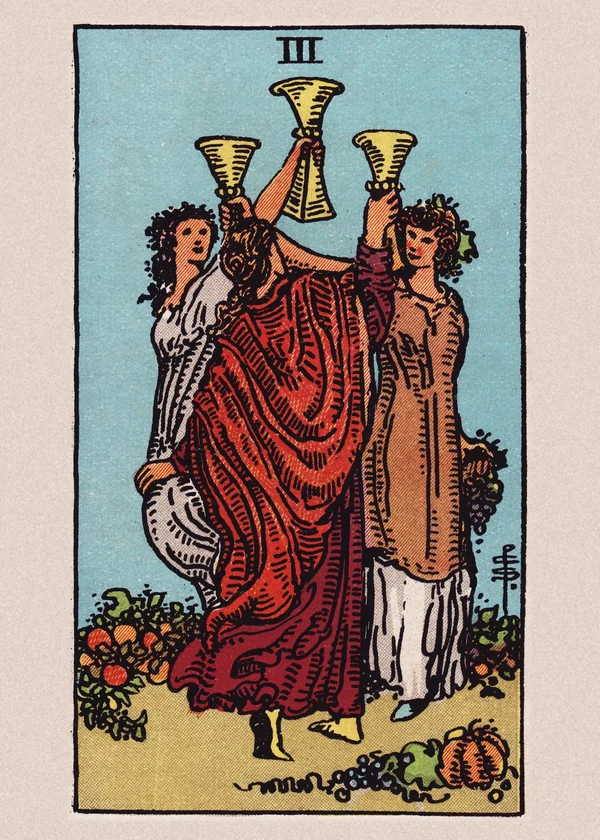
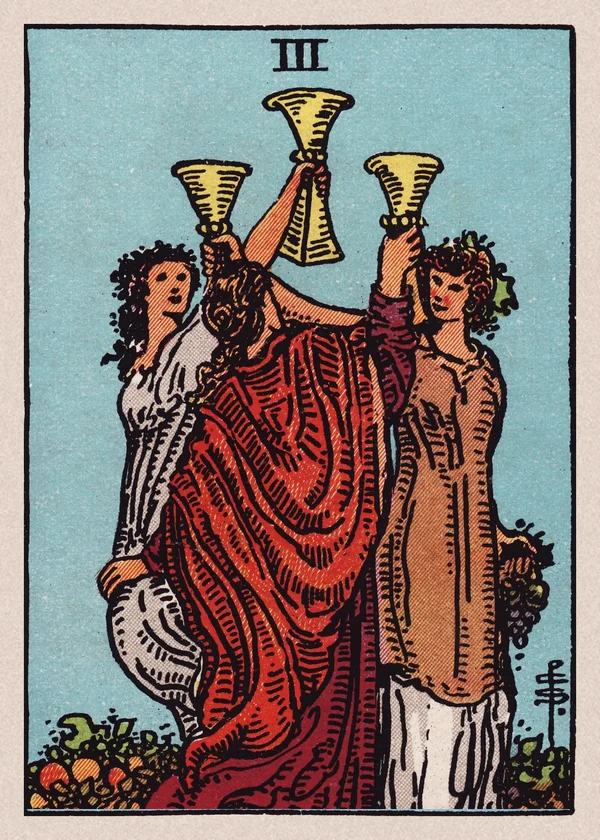
Preview: 1910 Frank Irons broad-jump card for EXACT, scans edge to edge, tarot recropped, intro card 7 columns
Claude-Session: https://claude.ai/code/session_01PnSu5xV1ctRTnpq1nQqMsJ

diff --git a/index.html b/index.html
@@ -22,7 +22,7 @@
 <link rel="preconnect" href="https://fonts.gstatic.com" crossorigin>
 <link rel="stylesheet" href="https://fonts.googleapis.com/css2?family=Bricolage+Grotesque:opsz,wght@12..96,300..800&family=Plus+Jakarta+Sans:ital,wght@0,300..800;1,300..800&family=Rampart+One&display=swap">
 <link rel="stylesheet" href="assets/site.css?v=20261013u">
-<link rel="stylesheet" href="assets/dir-i.css?v=20261105zi">
+<link rel="stylesheet" href="assets/dir-i.css?v=20261105zk">
 <!-- the ground fetched first, so it is usually there for the first frame -->
 <link rel="preload" as="image" href="assets/tex/moss-quiet-2k.webp" fetchpriority="high">
 <link rel="preload" as="image" href="assets/tex/canopy-shade-L.webp" fetchpriority="high">
@@ -88,7 +88,7 @@
  
  <h2 class="i-label" id="work">Case studies</h2>
  <section class="i-row i-cases"><div class="phone floor-phone no-grass lay" role="img" aria-label="The EXACT app measuring a vertical jump"><img src="assets/img/exact-capture-vertical-jump.webp" alt=""></div>
-  <article class="card lay case k1 d-trade"><div class="cf"><div class="c-art art-stations c-deck"><img src="assets/img/cards/murad-card.webp" alt="" width="600" height="840" loading="eager" decoding="async"></div><p class="c-type">EXACT Sports, 2026</p><h3><a class="c-link" href="work/exact-sports/">Reimagining the Combine</a></h3><p class="c-text">How interviews with coaches helped me build an AR app that replaces pen-and-paper testing at athletic events.</p><a class="c-more" href="work/exact-sports/" tabindex="-1" aria-hidden="true">Read the case study</a></div></article>
+  <article class="card lay case k1 d-trade"><div class="cf"><div class="c-art art-stations c-deck"><img src="assets/img/cards/irons-jump.webp" alt="" width="729" height="840" loading="eager" decoding="async"></div><p class="c-type">EXACT Sports, 2026</p><h3><a class="c-link" href="work/exact-sports/">Reimagining the Combine</a></h3><p class="c-text">How interviews with coaches helped me build an AR app that replaces pen-and-paper testing at athletic events.</p><a class="c-more" href="work/exact-sports/" tabindex="-1" aria-hidden="true">Read the case study</a></div></article>
   <article class="card lay case k2 d-hana"><div class="cf"><span class="c-index s-blk" aria-hidden="true"><b>2</b><i>♠</i></span><div class="c-art art-lab c-deck"><img src="assets/img/cards/hana-feb.webp" alt="" width="489" height="820" loading="eager" decoding="async"></div><p class="c-type">Embodied Cognition Lab, 2025–26</p><h3><a class="c-link" href="work/embodied-cognition/">An Unorthodox Approach to Language Learning</a></h3><p class="c-text">How I worked to help design and pilot a role-playing workshop to help language learners get comfortable making mistakes.</p><a class="c-more" href="work/embodied-cognition/" tabindex="-1" aria-hidden="true">Read the case study</a><span class="c-index c-index-b s-blk c-kun" aria-hidden="true"><b lang="ja">ふた</b><i>♠</i></span></div></article>
   <article class="card lay case k3 d-tarot"><div class="cf"><div class="c-art art-birds c-deck"><img src="assets/img/cards/tarot-3-cups.webp" alt="" width="600" height="840" loading="eager" decoding="async"></div><p class="c-type">BIRDS Lab, 2025–26</p><h3><a class="c-link" href="work/birds-lab/">Unpacking Allyship</a></h3><p class="c-text">What I took away from analyzing and running studies about the nature of how to best help people recovering from minority stress.</p><a class="c-more" href="work/birds-lab/" tabindex="-1" aria-hidden="true">Read the case study</a></div></article>
  </section>

diff --git a/assets/dir-i.css b/assets/dir-i.css
@@ -849,3 +849,11 @@ li.mock::before, label.mock::before, .c-pdf.mock::before, .c-now.mock::before { 
 .x-i.x-i.x-i .i-cases > .case.d-trade .c-art.c-deck, .x-i.x-i.x-i .i-cases > .case.d-tarot .c-art.c-deck { inset: 0; border: 0; outline: 0; box-shadow: none; border-radius: inherit; overflow: hidden; }
 .x-i.x-i.x-i .i-cases > .case.d-trade .c-art.c-deck img, .x-i.x-i.x-i .i-cases > .case.d-tarot .c-art.c-deck img { object-fit: cover; position: static; z-index: auto; }
 .x-i.x-i.x-i .i-cases > .case h3 { box-shadow: none; }
+/* Scanned cards: the scan is the face, edge to edge (the base .card padding made a second border). */
+.x-i.x-i.x-i .i-cases > .case.d-trade, .x-i.x-i.x-i .i-cases > .case.d-hana, .x-i.x-i.x-i .i-cases > .case.d-tarot { padding: 0; }
+.x-i.x-i.x-i .i-cases > .case.d-trade::after, .x-i.x-i.x-i .i-cases > .case.d-tarot::after { background-image: linear-gradient(125deg, rgba(255,255,255,.14) 0%, rgba(255,255,255,0) 35%, rgba(255,255,255,0) 70%, rgba(255,255,255,.06) 100%); box-shadow: none; }
+/* EXACT: a real 1910 trading card (Frank Irons, broad jump) at its own squarer shape, same height as the others. */
+.x-i.x-i.x-i .i-cases > .case.d-trade { aspect-ratio: 2514 / 2898; width: 121.4%; justify-self: end; border-radius: 6px; background: none; }
+.x-i.x-i.x-i .i-cases > .case.d-trade .c-art.c-deck img { object-fit: fill; }
+@media (max-width: 1000px) { .x-i.x-i.x-i .i-cases > .case.d-trade { width: min(100%, 340px); justify-self: center; } }
+@media (min-width: 1001px) { .x-i.x-i .c-intro { grid-column: 1 / 8; } } /* 7 columns: hugs the tagline and buttons */

diff --git a/work/birds-lab/index.html b/work/birds-lab/index.html
@@ -22,7 +22,7 @@
 <link rel="preconnect" href="https://fonts.gstatic.com" crossorigin>
 <link rel="stylesheet" href="https://fonts.googleapis.com/css2?family=Bricolage+Grotesque:wght@300..800&family=Plus+Jakarta+Sans:ital,wght@0,300..800;1,300..800&family=Rampart+One&display=swap">
 <link rel="stylesheet" href="../../assets/site.css?v=20261013u">
-<link rel="stylesheet" href="../../assets/dir-i.css?v=20261105zi">
+<link rel="stylesheet" href="../../assets/dir-i.css?v=20261105zk">
 <link rel="stylesheet" href="../../assets/case-i.css?v=20261029m">
 <!-- the ground fetched first, so it is usually there for the first frame -->
 <link rel="preload" as="image" href="../../assets/tex/moss-quiet-2k.webp" fetchpriority="high">

diff --git a/work/daily-weather/index.html b/work/daily-weather/index.html
@@ -22,7 +22,7 @@
 <link rel="preconnect" href="https://fonts.gstatic.com" crossorigin>
 <link rel="stylesheet" href="https://fonts.googleapis.com/css2?family=Bricolage+Grotesque:wght@300..800&family=Plus+Jakarta+Sans:ital,wght@0,300..800;1,300..800&family=Rampart+One&display=swap">
 <link rel="stylesheet" href="../../assets/site.css?v=20261013u">
-<link rel="stylesheet" href="../../assets/dir-i.css?v=20261105zi">
+<link rel="stylesheet" href="../../assets/dir-i.css?v=20261105zk">
 <link rel="stylesheet" href="../../assets/case-i.css?v=20261029m">
 <!-- the ground fetched first, so it is usually there for the first frame -->
 <link rel="preload" as="image" href="../../assets/tex/moss-quiet-2k.webp" fetchpriority="high">

diff --git a/work/embodied-cognition/index.html b/work/embodied-cognition/index.html
@@ -22,7 +22,7 @@
 <link rel="preconnect" href="https://fonts.gstatic.com" crossorigin>
 <link rel="stylesheet" href="https://fonts.googleapis.com/css2?family=Bricolage+Grotesque:wght@300..800&family=Plus+Jakarta+Sans:ital,wght@0,300..800;1,300..800&family=Rampart+One&display=swap">
 <link rel="stylesheet" href="../../assets/site.css?v=20261013u">
-<link rel="stylesheet" href="../../assets/dir-i.css?v=20261105zi">
+<link rel="stylesheet" href="../../assets/dir-i.css?v=20261105zk">
 <link rel="stylesheet" href="../../assets/case-i.css?v=20261029m">
 <!-- the ground fetched first, so it is usually there for the first frame -->
 <link rel="preload" as="image" href="../../assets/tex/moss-quiet-2k.webp" fetchpriority="high">

diff --git a/work/exact-sports/index.html b/work/exact-sports/index.html
@@ -22,7 +22,7 @@
 <link rel="preconnect" href="https://fonts.gstatic.com" crossorigin>
 <link rel="stylesheet" href="https://fonts.googleapis.com/css2?family=Bricolage+Grotesque:wght@300..800&family=Plus+Jakarta+Sans:ital,wght@0,300..800;1,300..800&family=Rampart+One&display=swap">
 <link rel="stylesheet" href="../../assets/site.css?v=20261013u">
-<link rel="stylesheet" href="../../assets/dir-i.css?v=20261105zi">
+<link rel="stylesheet" href="../../assets/dir-i.css?v=20261105zk">
 <link rel="stylesheet" href="../../assets/case-i.css?v=20261029m">
 <!-- the ground fetched first, so it is usually there for the first frame -->
 <link rel="preload" as="image" href="../../assets/tex/moss-quiet-2k.webp" fetchpriority="high">

diff --git a/projects/index.html b/projects/index.html
@@ -22,7 +22,7 @@
 <link rel="preconnect" href="https://fonts.gstatic.com" crossorigin>
 <link rel="stylesheet" href="https://fonts.googleapis.com/css2?family=Bricolage+Grotesque:wght@300..800&family=Plus+Jakarta+Sans:ital,wght@0,300..800;1,300..800&family=Rampart+One&display=swap">
 <link rel="stylesheet" href="../assets/site.css?v=20261013u">
-<link rel="stylesheet" href="../assets/dir-i.css?v=20261105zi">
+<link rel="stylesheet" href="../assets/dir-i.css?v=20261105zk">
 <link rel="stylesheet" href="../assets/case-i.css?v=20261029m">
 <!-- the ground fetched first, so it is usually there for the first frame -->
 <link rel="preload" as="image" href="../assets/tex/moss-quiet-2k.webp" fetchpriority="high">
